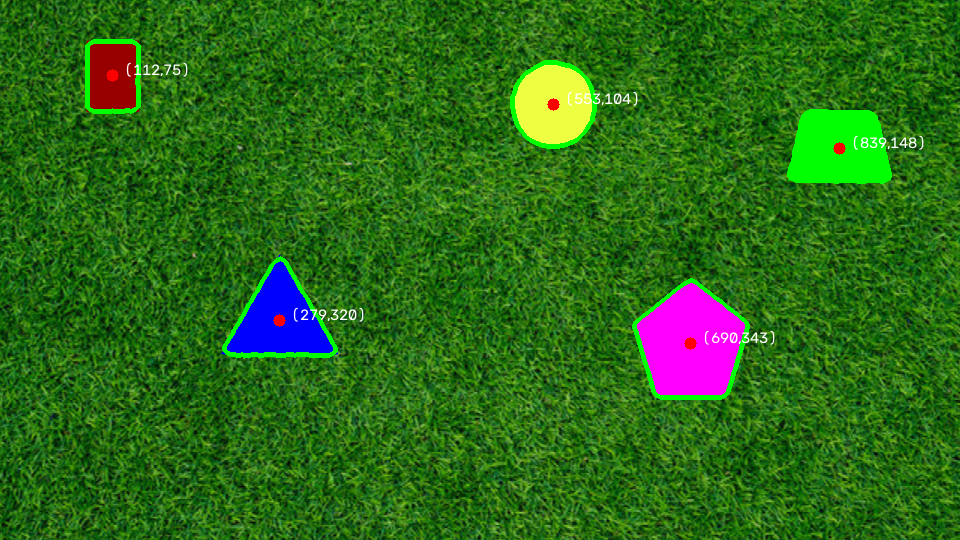
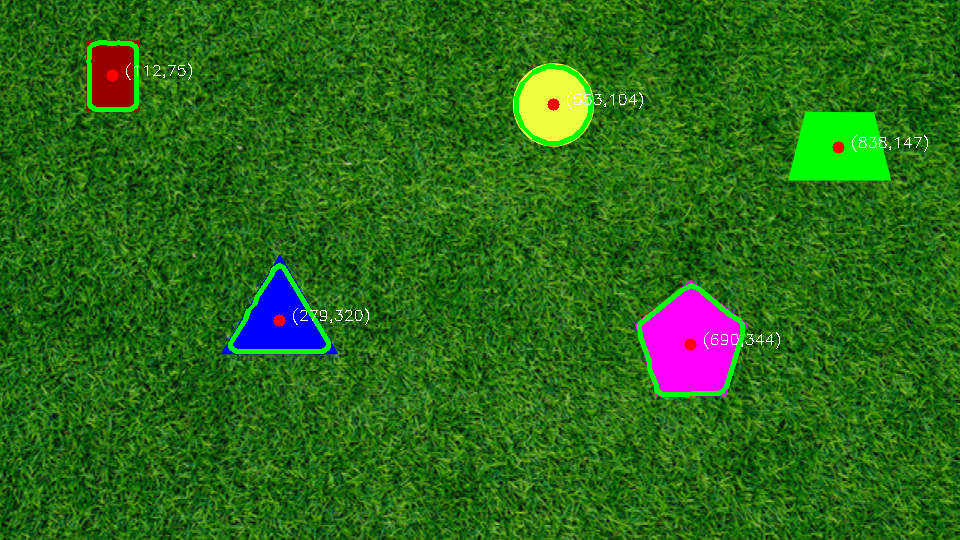
updated part1 and part2 to match new function

diff --git a/src/part2-video.py b/src/part2-video.py
@@ -1,6 +1,6 @@
 import cv2
-import time
 from shape_detector import detect_shapes, draw_shapes
+from video_writer import FFmpegVideoWriter
 
 INPUT_VIDEO = "videos/PennAir 2024 App Dynamic.mp4"
 OUTPUT_VIDEO = "videos/part2_output.mp4"
@@ -14,12 +14,9 @@ fps = cap.get(cv2.CAP_PROP_FPS)
 width = int(cap.get(cv2.CAP_PROP_FRAME_WIDTH))
 height = int(cap.get(cv2.CAP_PROP_FRAME_HEIGHT))
 
-#writes annotated frames out to new file
-fourcc = cv2.VideoWriter_fourcc(*"mp4v")
-writer = cv2.VideoWriter(OUTPUT_VIDEO, fourcc, fps, (width, height))
+writer = FFmpegVideoWriter(OUTPUT_VIDEO, fps, width, height)
 
 frame_count = 0
-total_process_time = 0.0
 
 while True:
     #check if video runs out of frames
@@ -27,11 +24,8 @@ while True:
     if not ret:
         break
 
-    start = time.time()
-
-    shapes = detect_shapes(frame, detect_width=640, min_area=3000)
+    shapes = detect_shapes(frame, min_area=2000, min_solidity=0.6)
     annotated = draw_shapes(frame, shapes)
-    total_process_time += time.time() - start
 
     #live shape count on frame
     cv2.putText(
@@ -48,9 +42,5 @@ while True:
 cap.release()
 writer.release()
 
-avg_ms = (total_process_time / frame_count) * 1000
-effective_fps = frame_count / total_process_time
 print(f"\nDone. Processed {frame_count} frames.")
-print(f"Average detection time per frame: {avg_ms:.2f} ms "
-      f"({effective_fps:.1f} FPS -- source video is {fps:.1f} FPS)")
 print(f"Saved annotated video to {OUTPUT_VIDEO}")

diff --git a/src/part1-static.py b/src/part1-static.py
@@ -1,6 +1,4 @@
 import cv2
-import numpy as np
-
 from shape_detector import detect_shapes, draw_shapes
 
 # Load the image
@@ -9,9 +7,13 @@ image = cv2.imread(image_path)
 
 if image is None:
     raise FileNotFoundError(f"Could not load image at {image_path}")
+
 shapes = detect_shapes(image)
 print(f"Found {len(shapes)} shapes.")
 for i, shape in enumerate(shapes, start=1):
     print(f"  Shape {i}: center={shape['center']}, area={shape['area']:.0f}px")
 
 output = draw_shapes(image, shapes)
+
+cv2.imwrite("images/part1_output.png", output)
+print("Saved result to images/part1_output.png")
